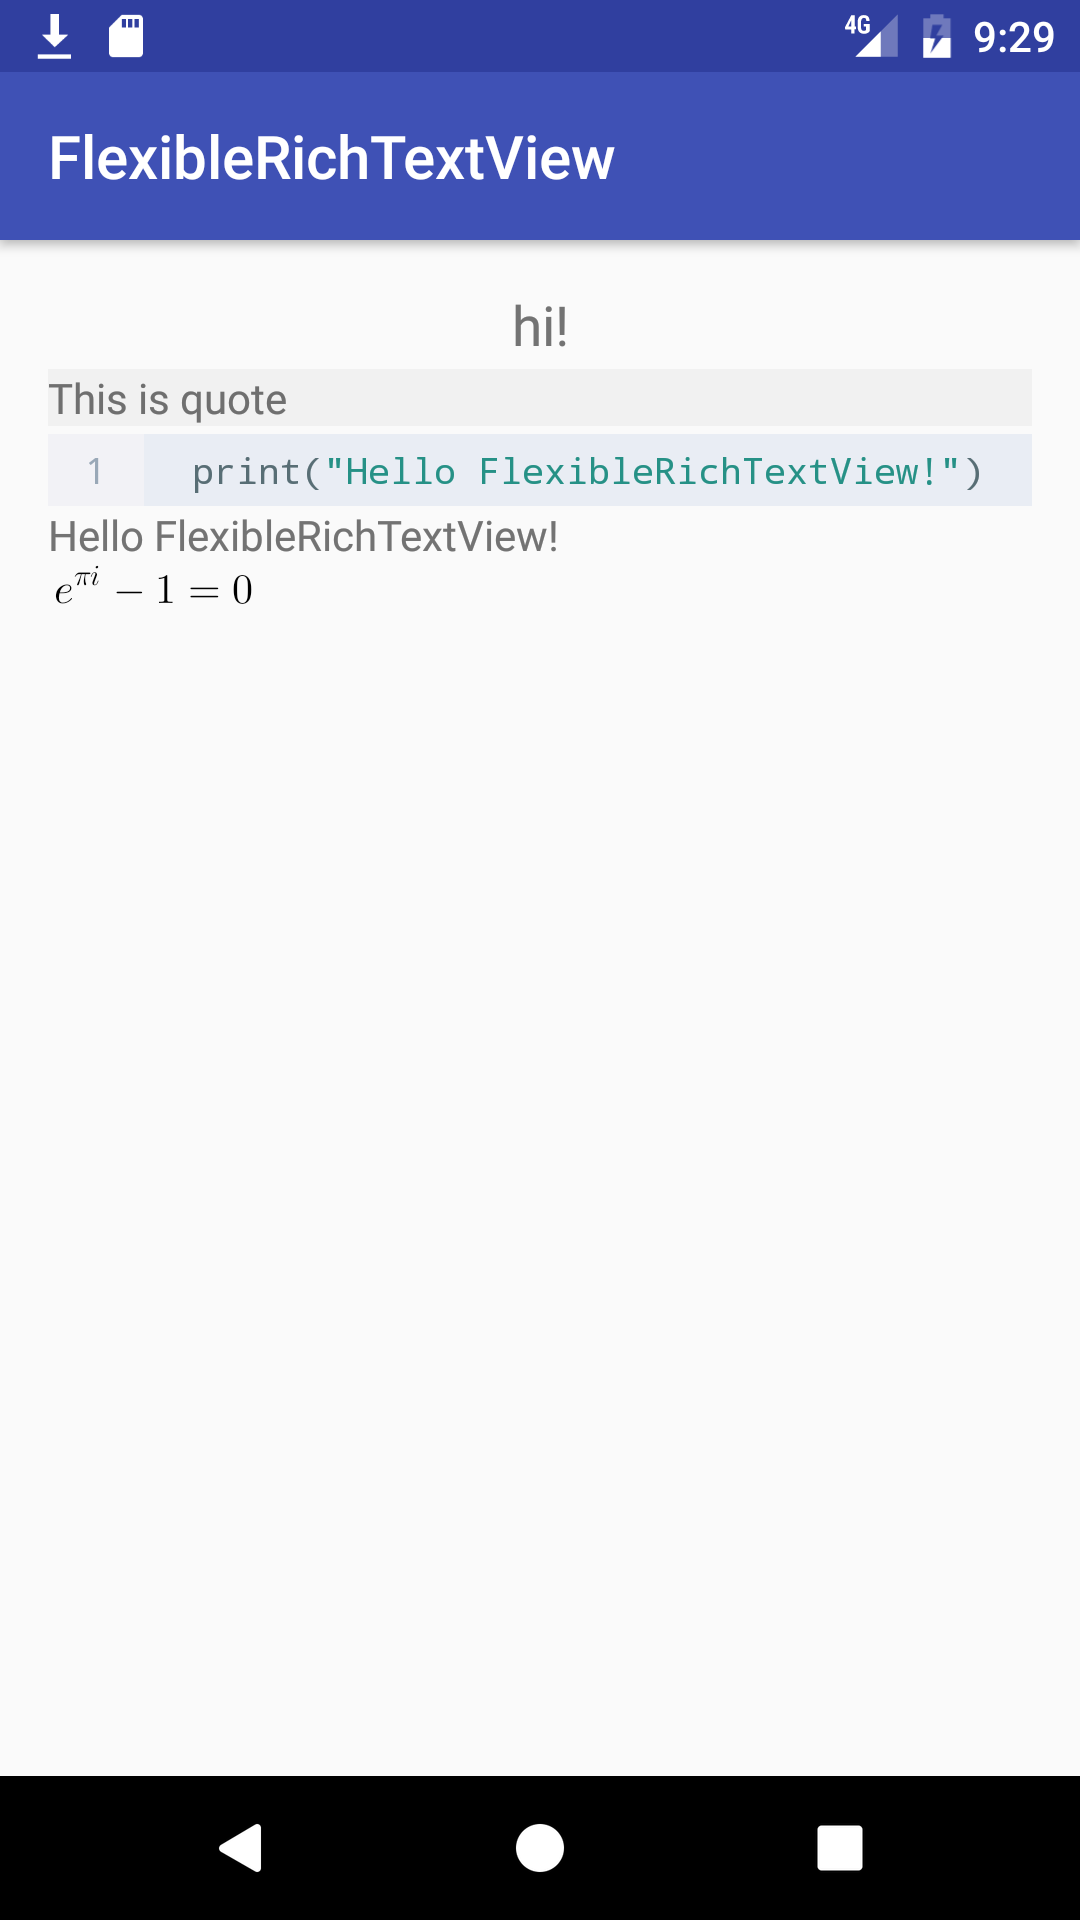
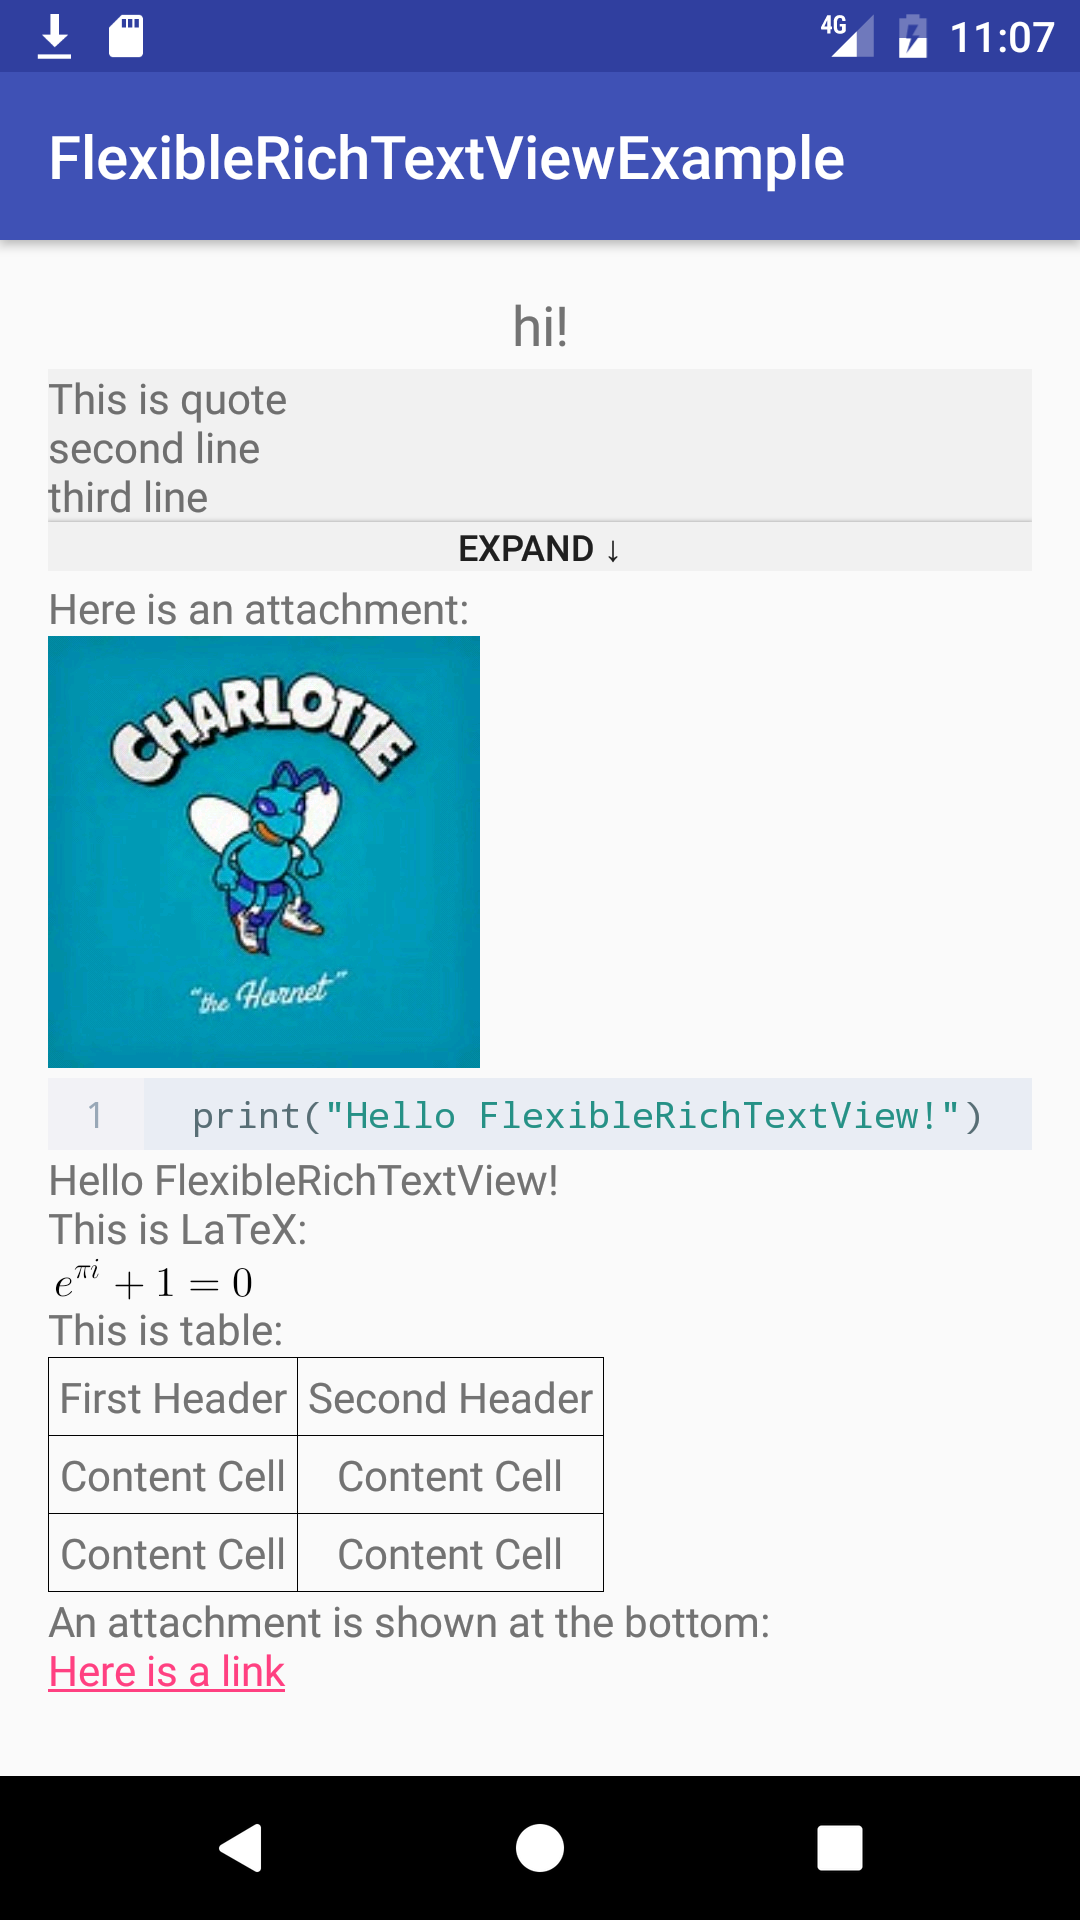
update example and screenshot

diff --git a/app/src/main/java/com/example/daquexian/flexiblerichtextview/MainActivity.java b/app/src/main/java/com/example/daquexian/flexiblerichtextview/MainActivity.java
@@ -44,7 +44,7 @@ public class MainActivity extends AppCompatActivity {
                         "[code]print(\"Hello FlexibleRichTextView!\")[/code]" +
                         "Hello FlexibleRichTextView!\n" +
                         "This is LaTeX:\n" +
-                        "$e^{\\pi i} - 1 = 0$\n" +
+                        "$e^{\\pi i} + 1 = 0$\n" +
                         "This is table:\n" +
                         "| First Header  | Second Header |\n" +
                         "| --- | --- |\n" +
